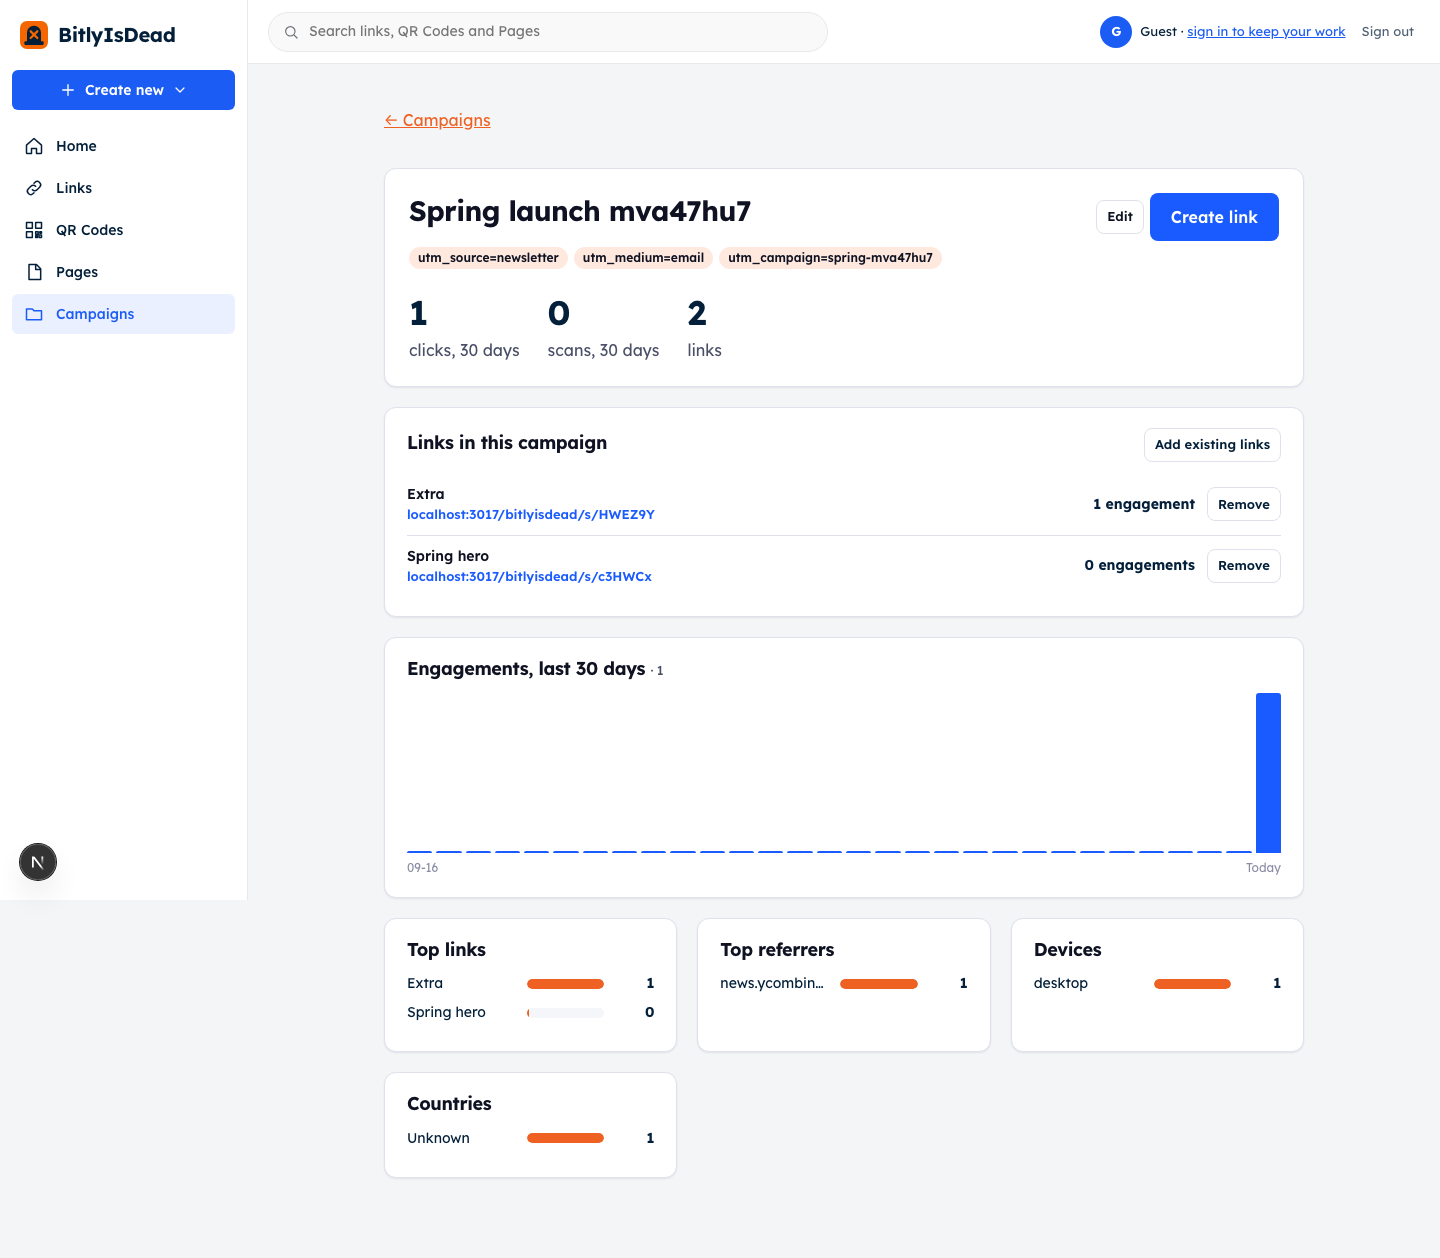
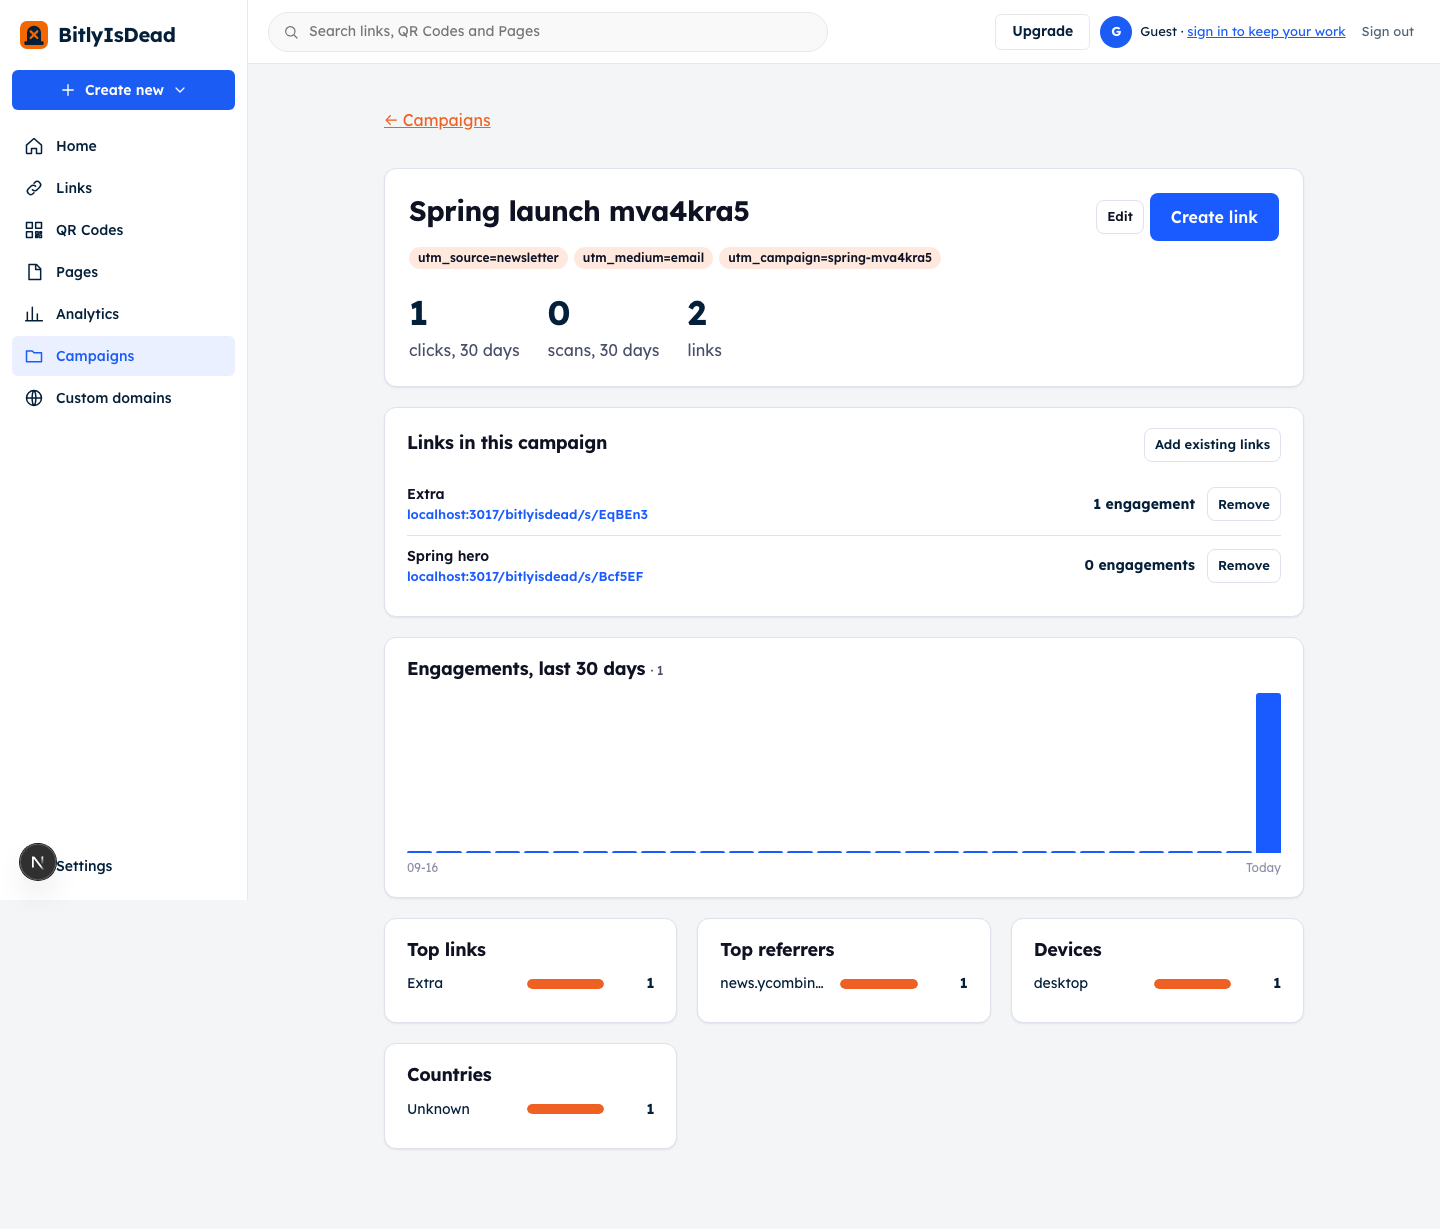
Analytics: global dashboard with date range, top links, referrers, devices, browsers and locations
Closes QA finding #7. /app/analytics rolls up every active link: engagements (clicks + scans) for the last 7/30/90 days or a custom range, a per-day chart, top performing links, referrers, devices, browsers, countries and cities, plus a CSV export. Locations come from the country/city headers the platform attaches (x-vercel-ip-country/-city), never the IP, and appear on every link's details page too (data model from the app-shell PR). Bots stay excluded. Top links only list links with engagements in the range (also fixes the campaign page's empty state).

diff --git a/components/Analytics.tsx b/components/Analytics.tsx
@@ -1,0 +1,25 @@
+"use client";
+// Global Analytics (Bitly's Analytics tab): date range, engagements over time, top links, referrers, devices, browsers, locations.
+import Link from "next/link";
+import { useRouter, useSearchParams } from "next/navigation";
+import { Bars } from "@/components/LinkDetails";
+import { hostOf, plural } from "@/lib/links";
+import type { Agg } from "@/lib/analytics";
+const RANGES = [["7", "Last 7 days"], ["30", "Last 30 days"], ["90", "Last 90 days"]] as const;
+export function Analytics({ agg, days, linkCount, from, to }: { agg: Agg; days: number; linkCount: number; from?: string; to?: string }) {
+  const r = useRouter(); const sp = useSearchParams(); const custom = !!(from || to);
+  const set = (k: string, v: string) => { const u = new URLSearchParams(sp.toString()); if (v) u.set(k, v); else u.delete(k); if (k === "days") { u.delete("from"); u.delete("to"); } r.push(`/app/analytics?${u}`); };
+  const tot = agg.clicks + agg.scans; const max = Math.max(1, ...agg.series.map(x => x.clicks + x.scans)); const first = agg.series[0]?.day ?? "", last = agg.series[agg.series.length - 1]?.day ?? "";
+  const csv = () => { const rows = [["day", "clicks", "scans"], ...agg.series.map(x => [x.day, x.clicks, x.scans])]; const a = document.createElement("a"); a.href = URL.createObjectURL(new Blob([rows.map(r => r.join(",")).join("\n")], { type: "text/csv" })); a.download = `bitlyisdead-analytics-${first}-${last}.csv`; a.click(); };
+  return <main className="bl-app bl-home">
+    <div className="bl-head"><h1 className="ids-h2" style={{ fontSize: 28, margin: 0 }}>Analytics <span className="ids-muted" style={{ fontSize: 15, fontWeight: 500 }}>{plural(linkCount, "link")}</span></h1>
+      <div className="bl-tools" style={{ gap: 6 }}><label className="bl-sel">Date range <select aria-label="Date range" className="ids-input" value={custom ? "custom" : String(days)} onChange={e => e.target.value === "custom" ? set("from", first) : set("days", e.target.value)}>{RANGES.map(([v, l]) => <option key={v} value={v}>{l}</option>)}<option value="custom">Custom…</option></select></label>
+        {custom && <><input aria-label="From date" type="date" className="ids-input" value={from ?? ""} max={to || undefined} onChange={e => set("from", e.target.value)} /><input aria-label="To date" type="date" className="ids-input" value={to ?? ""} min={from || undefined} onChange={e => set("to", e.target.value)} /></>}
+        <button type="button" className="iconbtn" onClick={csv}>Export CSV</button></div></div>
+    <div className="an-kpis"><div className="ids-card bl-panel"><span className="ids-muted">Engagements</span><b data-testid="an-total">{tot.toLocaleString()}</b></div><div className="ids-card bl-panel"><span className="ids-muted">Clicks</span><b>{agg.clicks.toLocaleString()}</b></div><div className="ids-card bl-panel"><span className="ids-muted">Scans</span><b>{agg.scans.toLocaleString()}</b></div><div className="ids-card bl-panel"><span className="ids-muted">Top referrer</span><b style={{ fontSize: 18 }}>{agg.referrers[0]?.name ?? "—"}</b></div></div>
+    <section className="ids-card bl-panel"><h3 className="ids-h3" style={{ fontSize: 18, marginBottom: 12 }}>Engagements over time <span className="ids-muted" style={{ fontWeight: 500, fontSize: 13 }}>· {first} to {last}</span></h3><div className="bl-chart" role="img" aria-label="Clicks and scans per day">{agg.series.map(x => <div key={x.day} title={`${x.day}: ${x.clicks} clicks, ${x.scans} scans`}><i style={{ height: `${((x.clicks + x.scans) / max) * 100}%` }} /></div>)}</div><div className="bl-chart__ax"><span>{first.slice(5)}</span><span>{last.slice(5)}</span></div></section>
+    <section className="ids-card bl-panel"><h3 className="ids-h3" style={{ fontSize: 18, marginBottom: 8 }}>Top performing links</h3>{agg.topLinks.length === 0 ? <p className="ids-muted" style={{ margin: 0 }}>No engagements in this range yet.</p> : <table className="an-tbl" data-testid="an-top"><thead><tr><th>Link</th><th>Short link</th><th>Clicks</th><th>Scans</th></tr></thead><tbody>{agg.topLinks.map(t => <tr key={t.code}><td><Link href={`/app/l/${t.code}`}>{t.title || hostOf(t.url)}</Link></td><td className="ids-muted">/s/{t.code}</td><td>{t.clicks.toLocaleString()}</td><td>{t.scans.toLocaleString()}</td></tr>)}</tbody></table>}</section>
+    <div className="bl-grid"><Bars title="Top referrers" rows={agg.referrers} total={tot} /><Bars title="Devices" rows={agg.devices} total={tot} /><Bars title="Browsers" rows={agg.browsers} total={tot} /><Bars title="Countries" rows={agg.countries} total={tot} /><Bars title="Cities" rows={agg.cities} total={tot} /></div>
+    <p className="ids-muted" style={{ fontSize: 12, margin: 0 }}>Locations come from the country and city your hosting platform attaches to each request; the visitor's IP address is never stored. Bots and link previews are counted separately and excluded here. Referrer, device, browser and location breakdowns are all-time per link.</p>
+  </main>;
+}

diff --git a/components/shellCfg.ts b/components/shellCfg.ts
@@ -1,5 +1,5 @@
 import type { ShellCfg } from "@/components/AppShell";
 export const shellCfg: ShellCfg = { mode: "side", vars: { "--side-w": "248px", "--accent": "#1b5cf5", "--on-bg": "#eaf0ff", "--on-ink": "#1b5cf5", "--page": "#f4f5f7", "--top-bg": "#fff", "--r": "6px", "--top-h": "64px", "--side-ink": "#031f39", "--top-ink": "#031f39" } as Record<string, string>,
   create: [{ label: "Link", href: "/app/links/new", icon: "link" }, { label: "QR Code", href: "/app/qr/new", icon: "qr" }, { label: "Page", href: "/app/pages/new", icon: "doc" }],
-  items: [{ label: "Home", href: "/app", icon: "home" }, { label: "Links", href: "/app/links", icon: "link", also: ["/app/l/"] }, { label: "QR Codes", href: "/app/qr", icon: "qr" }, { label: "Pages", href: "/app/pages", icon: "doc" }, { label: "Campaigns", href: "/app/campaigns", icon: "folder" }, { label: "Custom domains", href: "/app/domains", icon: "globe" }],
+  items: [{ label: "Home", href: "/app", icon: "home" }, { label: "Links", href: "/app/links", icon: "link", also: ["/app/l/"] }, { label: "QR Codes", href: "/app/qr", icon: "qr" }, { label: "Pages", href: "/app/pages", icon: "doc" }, { label: "Analytics", href: "/app/analytics", icon: "chart" }, { label: "Campaigns", href: "/app/campaigns", icon: "folder" }, { label: "Custom domains", href: "/app/domains", icon: "globe" }],
   foot: [{ label: "Settings", href: "/app/settings", icon: "settings" }], search: "Search links, QR Codes and Pages", right: [{ label: "Upgrade", href: "/app/upgrade" }] };

diff --git a/app/globals.css b/app/globals.css
@@ -103,3 +103,6 @@ textarea.ids-input{height:auto;padding:10px 14px;resize:vertical}
 @media (max-width:700px){.st-plan{grid-template-columns:1fr}.st-tabs{overflow-x:auto}.dm-tbl th:first-child,.dm-tbl td:first-child{display:none}}
 /* developers */
 .dv{max-width:860px;margin:0 auto;padding:40px 20px 80px;font-size:16px;line-height:1.55;color:#031F39}.dv h1{font-size:40px;margin:0 0 6px}.dv h2{font-size:22px;margin:34px 0 10px}.dv-lede{font-size:18px;color:#4D6173}.dv pre{background:#031F39;color:#fff;padding:14px 16px;border-radius:10px;overflow:auto;font-size:13px}.dv code{background:#F3F3F3;padding:1px 5px;border-radius:4px;font-size:.92em}.dv pre code{background:none;padding:0}.dv-tbl{width:100%;border-collapse:collapse;font-size:14px}.dv-tbl th,.dv-tbl td{text-align:left;padding:8px 10px 8px 0;border-bottom:1px solid #E3DED4;vertical-align:top}
+/* analytics */
+.an-kpis{display:grid;grid-template-columns:repeat(4,1fr);gap:14px}.an-kpis .bl-panel{display:flex;flex-direction:column;gap:4px}.an-kpis b{font-size:28px;font-family:var(--ids-font-display)}.an-tbl{width:100%;border-collapse:collapse;font-size:14px}.an-tbl th{text-align:left;color:var(--ids-color-text-subtle);font-weight:600;padding:6px 8px 6px 0}.an-tbl td{padding:8px 8px 8px 0;border-top:1px solid var(--ids-color-border)}.an-tbl a{font-weight:600;color:var(--ids-color-text);text-decoration:none}
+@media (max-width:760px){.an-kpis{grid-template-columns:1fr 1fr}}

diff --git a/lib/analytics.ts b/lib/analytics.ts
@@ -8,6 +8,6 @@ export function aggregate(links: Link[], days = 30, now = new Date()): Agg {
   const r: Record<string, number> = {}, dv: Record<string, number> = {}, br: Record<string, number> = {}, co: Record<string, number> = {}, ci: Record<string, number> = {};
   for (const l of links) { merge(r, l.stats.referrers); merge(dv, l.stats.devices); merge(br, l.stats.browsers); merge(co, l.stats.countries); merge(ci, l.stats.cities); }
   const inRange = (l: Link) => { let c = 0, s = 0; for (const x of series) { c += l.stats.daily[x.day] ?? 0; s += l.stats.dailyScans?.[x.day] ?? 0; } return { c, s }; };
-  const topLinks = links.map(l => { const { c, s } = inRange(l); return { code: l.code, title: l.title, url: l.url, clicks: c, scans: s }; }).sort((a, b) => b.clicks + b.scans - a.clicks - a.scans).slice(0, 10);
+  const topLinks = links.map(l => { const { c, s } = inRange(l); return { code: l.code, title: l.title, url: l.url, clicks: c, scans: s }; }).filter(t => t.clicks + t.scans > 0).sort((a, b) => b.clicks + b.scans - a.clicks - a.scans).slice(0, 10);
   return { clicks: series.reduce((n, x) => n + x.clicks, 0), scans: series.reduce((n, x) => n + x.scans, 0), series, referrers: top(r, 8), devices: top(dv, 4), browsers: top(br, 6), countries: top(co, 8), cities: top(ci, 8), topLinks };
 }

diff --git a/app/app/analytics/page.tsx b/app/app/analytics/page.tsx
@@ -1,0 +1,13 @@
+import { Suspense } from "react";
+import { requireUser } from "@/lib/session";
+import { listLinks } from "@/lib/linkstore";
+import { aggregate } from "@/lib/analytics";
+import { Analytics } from "@/components/Analytics";
+export const dynamic = "force-dynamic"; export const metadata = { title: "Analytics" };
+export default async function AnalyticsPage({ searchParams }: { searchParams: Promise<{ days?: string; from?: string; to?: string }> }) {
+  const u = await requireUser(); const { days, from, to } = await searchParams; const links = (await listLinks(u.id, u.demo)).filter(l => !l.hidden);
+  let n = [7, 30, 90].includes(Number(days)) ? Number(days) : 30; let end = new Date();
+  const ok = (s?: string) => !!s && /^\d{4}-\d{2}-\d{2}$/.test(s) && !isNaN(new Date(s).getTime());
+  if (ok(from) || ok(to)) { const f = ok(from) ? new Date(from!) : new Date(Date.now() - 29 * 864e5); const t = ok(to) ? new Date(to!) : new Date(); end = t; n = Math.min(366, Math.max(1, Math.round((t.getTime() - f.getTime()) / 864e5) + 1)); }
+  return <Suspense><Analytics agg={aggregate(links, n, end)} days={n} linkCount={links.length} from={ok(from) ? from : undefined} to={ok(to) ? to : undefined} /></Suspense>;
+}
